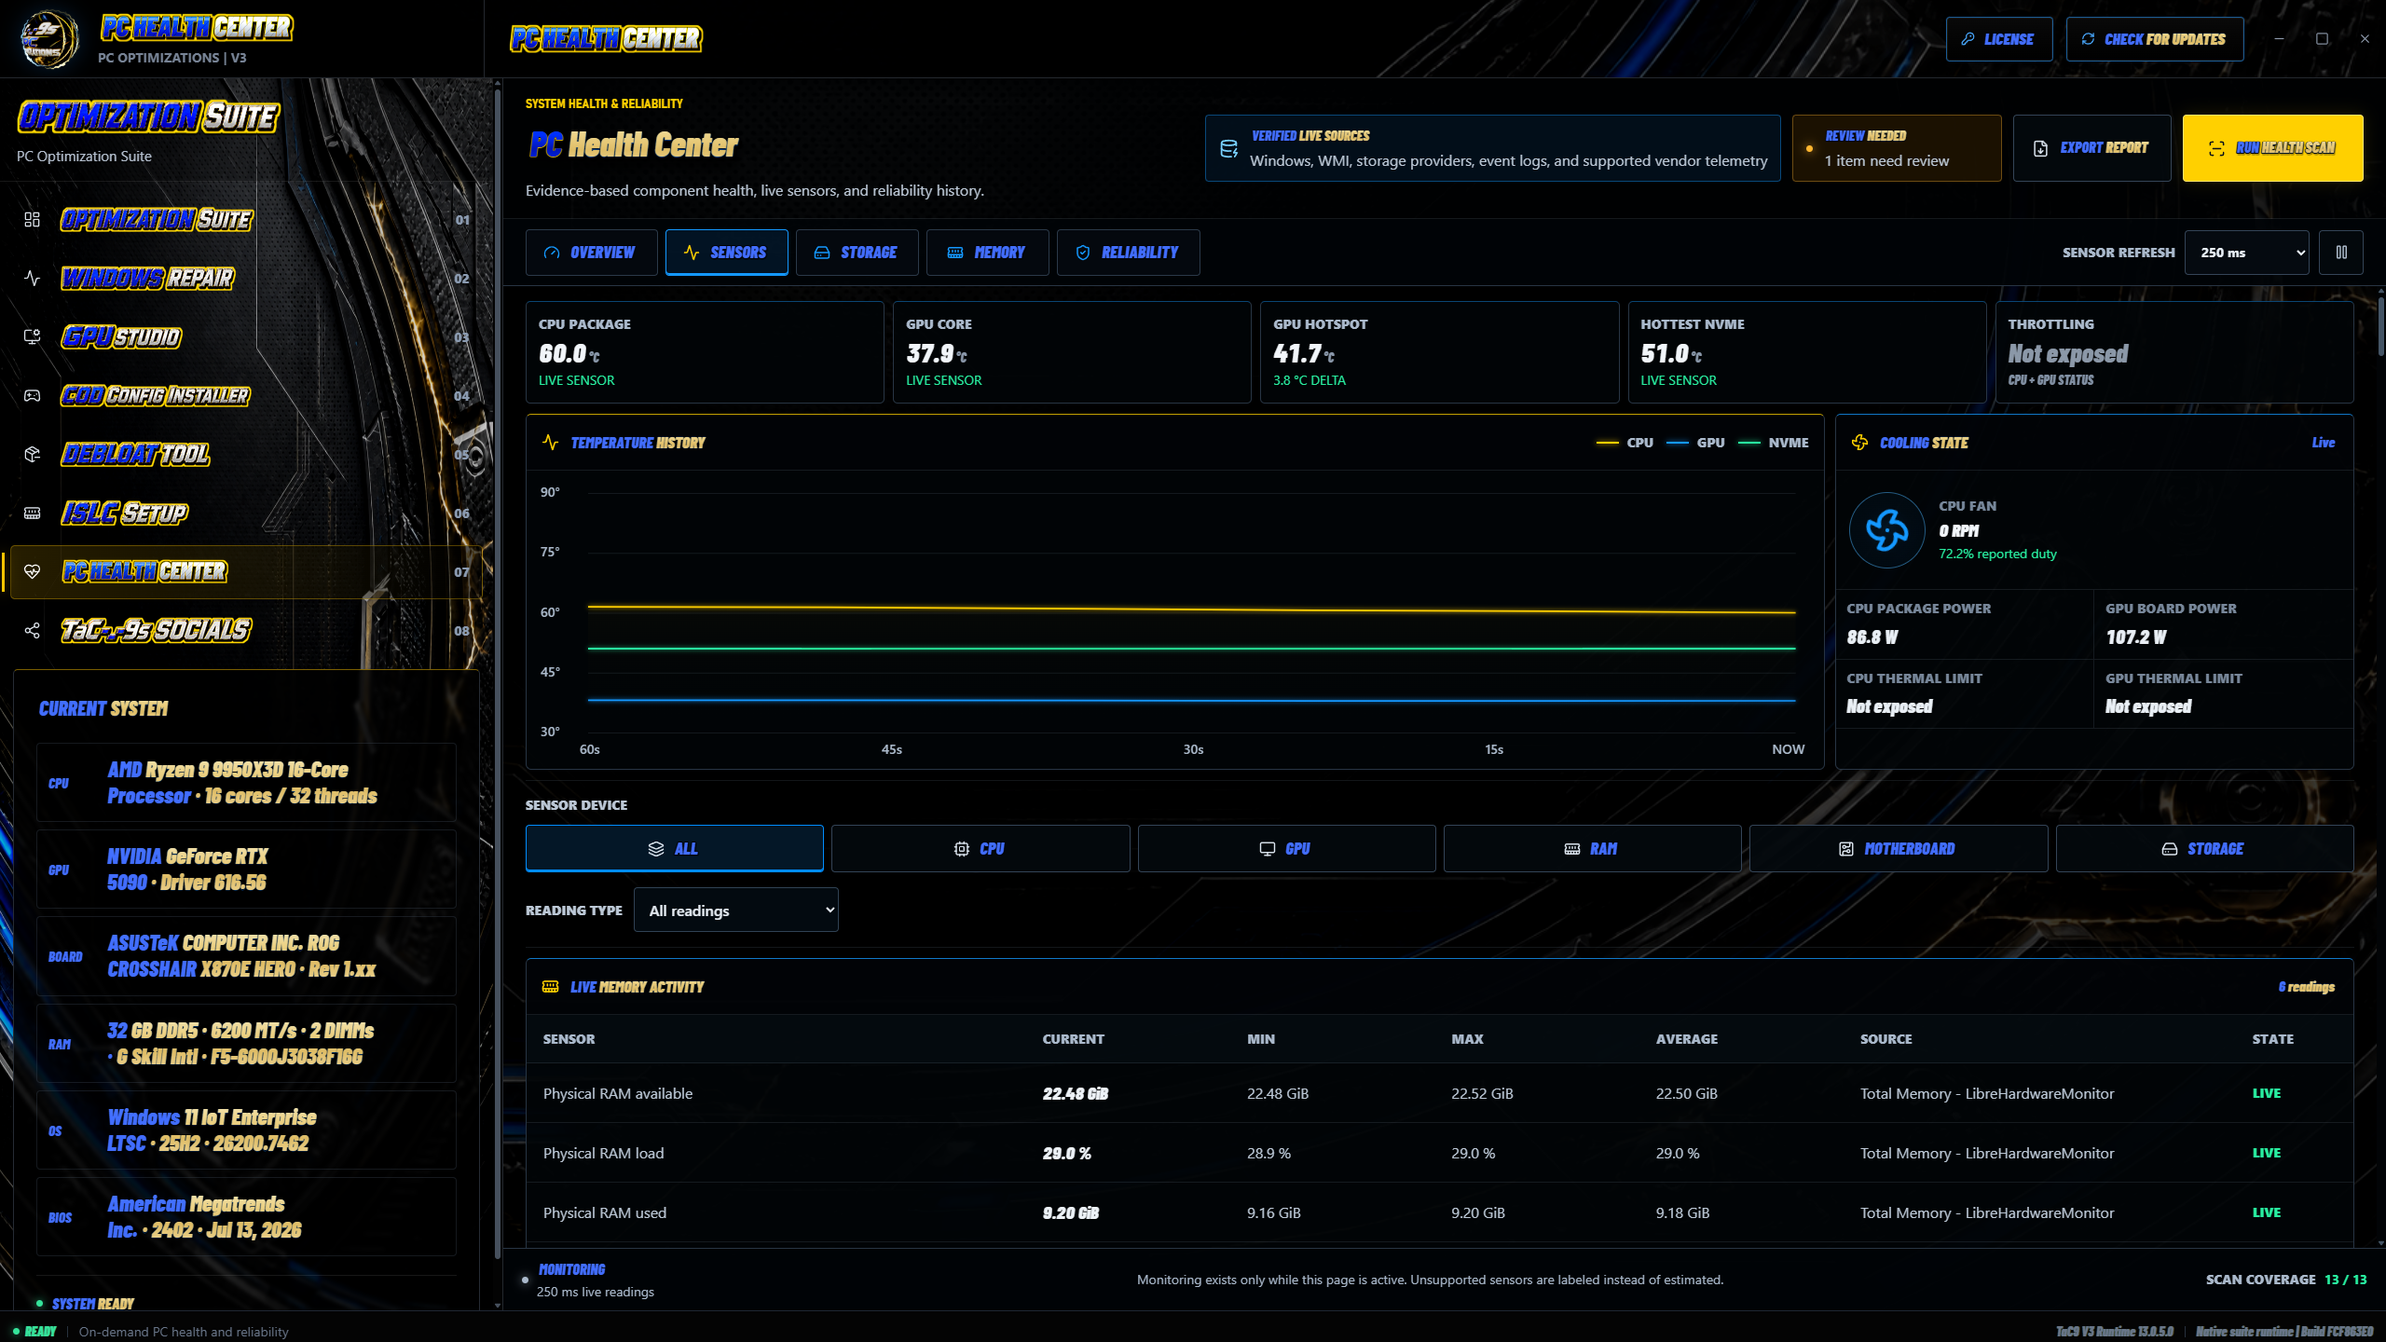
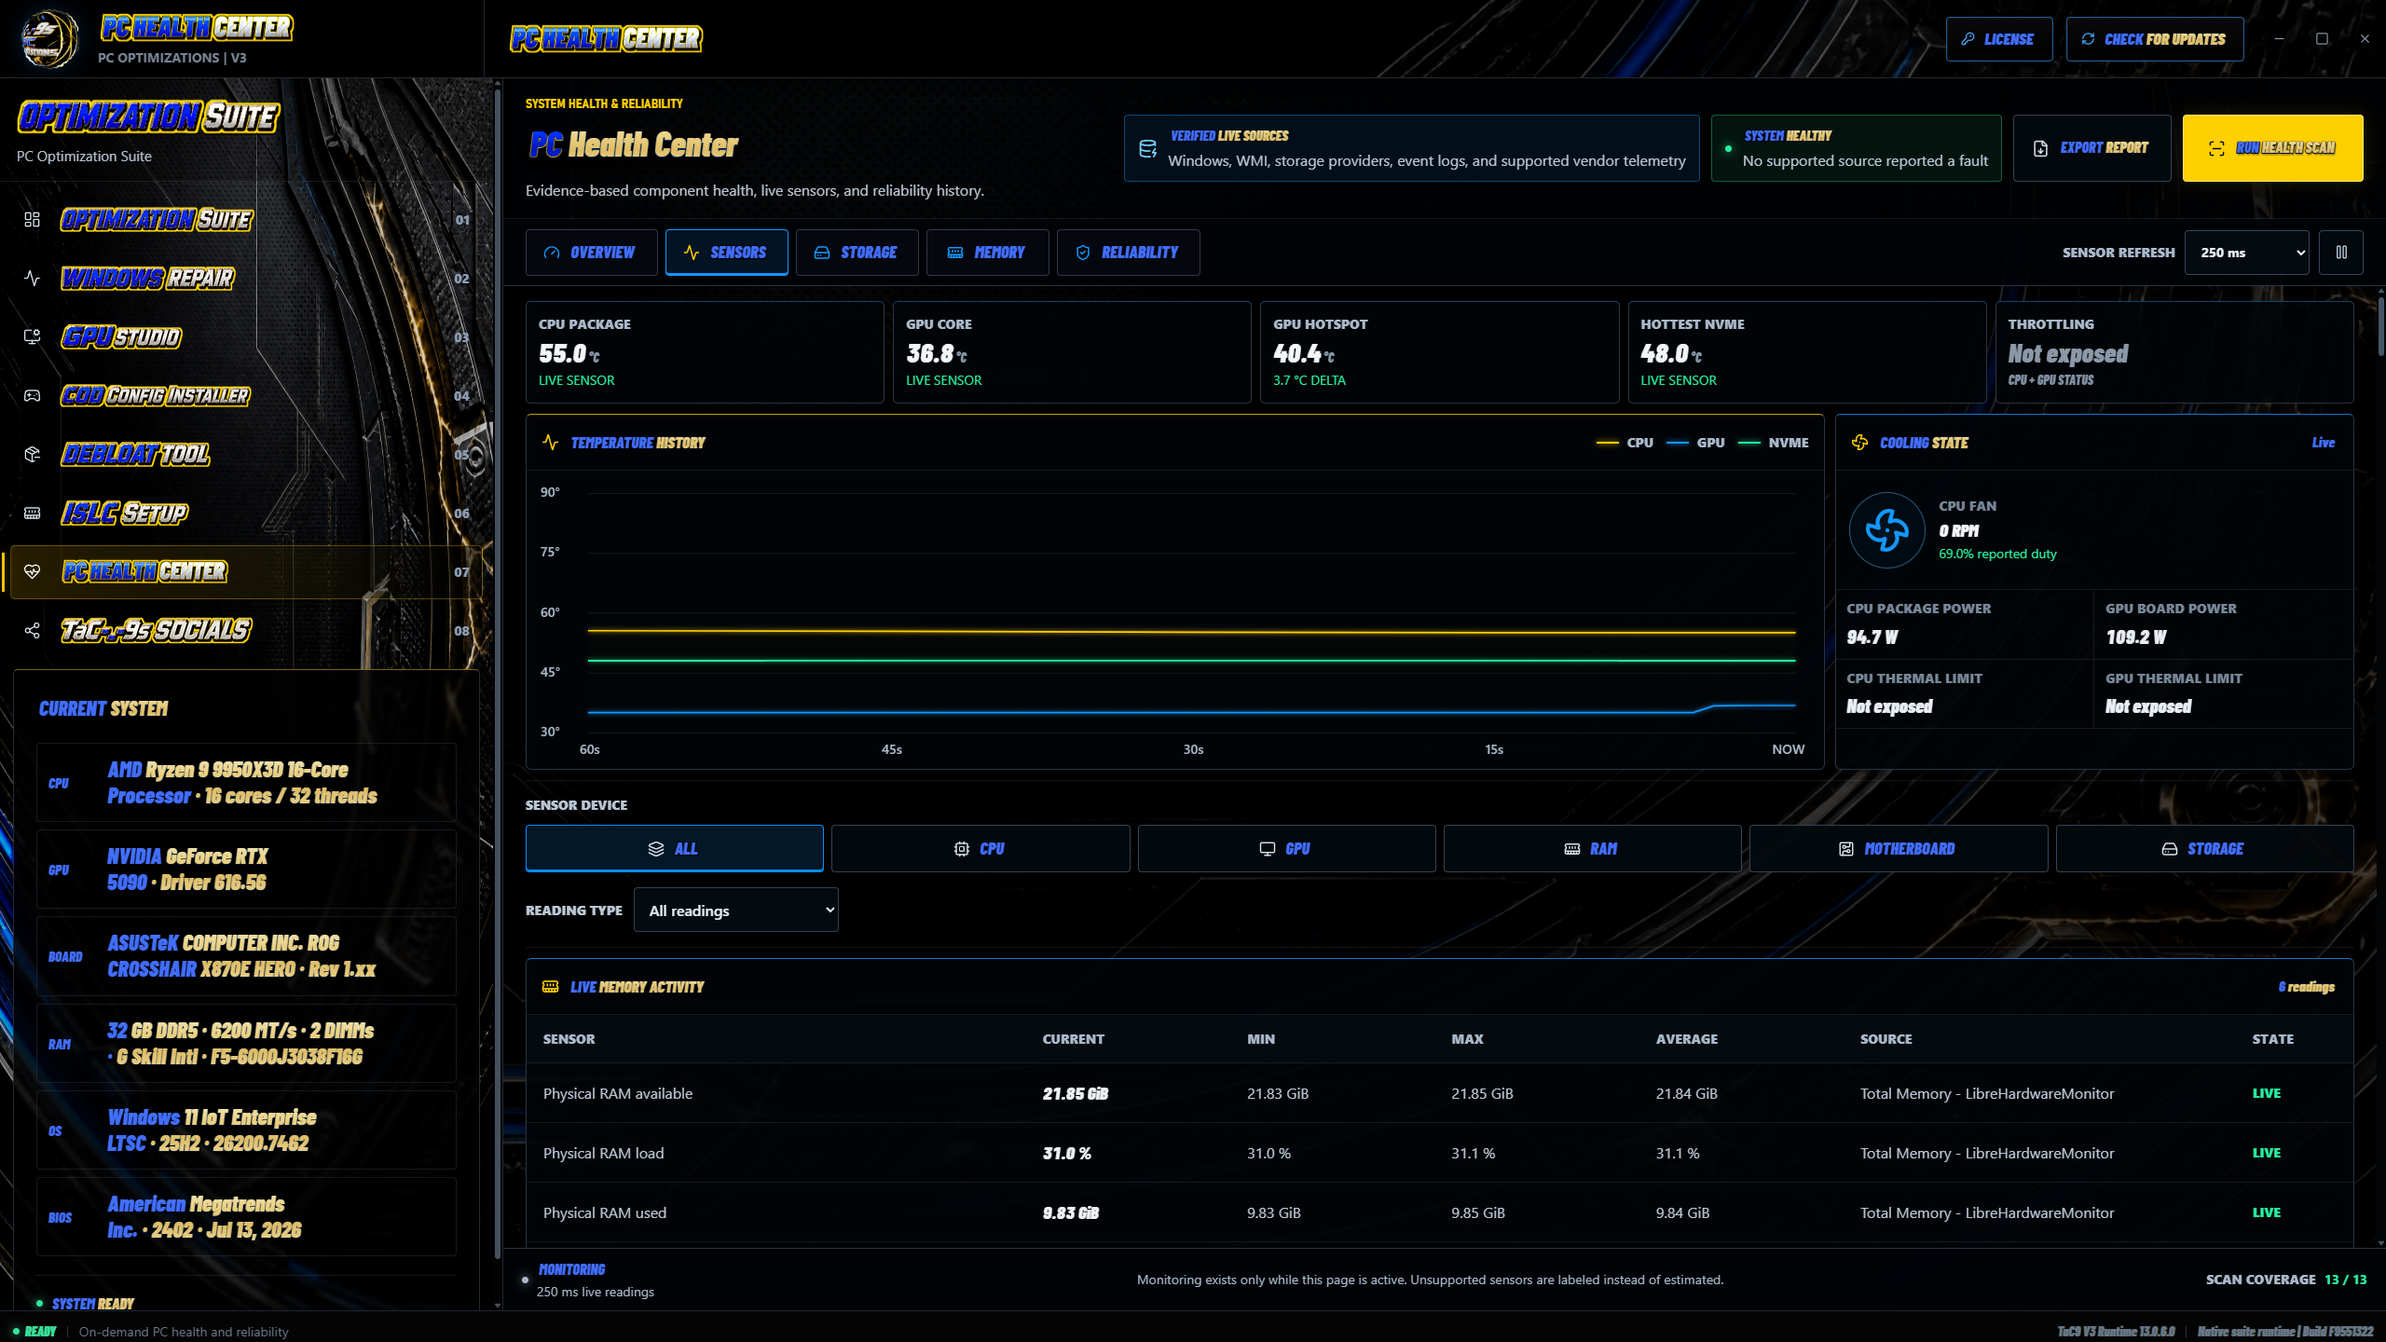
Document 13.0.6 lightweight driver records and progress controls

diff --git a/README.md b/README.md
@@ -10,11 +10,11 @@ TaC9 brings the everyday work of setting up and maintaining a gaming PC into one
 
 ![TaC9 Optimization Suite dashboard and eight-app navigation](docs/screenshots/suite.png)
 
-> Screenshots show the packaged V3 13.0.5 interface. Hardware and live sensor values are from the test PC; non-sensor maintenance states use the UI test harness. No driver cleanup, repair, or app removal was performed for these screenshots. Available readings depend on your PC.
+> Screenshots show the packaged V3 13.0.6 interface. Hardware and live sensor values are from the test PC; non-sensor maintenance states use the UI test harness. No driver cleanup, repair, or app removal was performed for these screenshots. Available readings depend on your PC.
 
 ## New in V3
 
-- **13.0.5:** Roll Back Driver reinstalls the saved previous NVIDIA driver through NVCleanstall and DDU. Normal installs verify a new backup before replacing the old one. [GPU installation and rollback guide](docs/GPU-ROLLBACK.md).
+- **13.0.6:** Roll Back Driver reinstalls the saved previous NVIDIA driver through NVCleanstall and DDU. Installs save a small previous-driver record, and the GPU progress window can be closed and reopened. [GPU installation and rollback guide](docs/GPU-ROLLBACK.md).
 
 - A full-screen animated startup with the rotating TaC9 emblem, assembling silver chassis, upgraded blue/gold lighting, and a smoother transition into the suite.
 - Larger, clearer text and content-aware scrolling throughout the suite, including the 1080p and scaled-window layout fixes.
@@ -28,13 +28,13 @@ The eight existing workspaces remain together. The repository keeps its original
 
 ## Download
 
-**Current release: V3 13.0.5**
+**Current release: V3 13.0.6**
 
 **[Download TaC9 V3 for Windows](https://github.com/Tac-9-Pc-Optimizations/TaC9-PC-Optimization-Suite-V2/releases/latest/download/TaC9-PC-Optimization-Suite-V3.exe)**
 
 [All releases and release notes](https://github.com/Tac-9-Pc-Optimizations/TaC9-PC-Optimization-Suite-V2/releases) | [SHA-256 checksum](https://github.com/Tac-9-Pc-Optimizations/TaC9-PC-Optimization-Suite-V2/releases/latest/download/SHA256SUMS.txt)
 
-One complete Windows executable, `TaC9-PC-Optimization-Suite-V3.exe`, includes the suite's eight workspaces. The COD Config Installer is included inside the suite, not offered here as a separate executable. Version 13.0.5 is approximately 191.7 MiB. Blender and Node.js are not required to run the suite.
+One complete Windows executable, `TaC9-PC-Optimization-Suite-V3.exe`, includes the suite's eight workspaces. The COD Config Installer is included inside the suite, not offered here as a separate executable. Version 13.0.6 is approximately 191.7 MiB. Blender and Node.js are not required to run the suite.
 
 The release also supplies a byte-identical `TaC9-PC-Optimization-Suite-V2.exe` compatibility asset for existing updater clients and old direct-download links. That asset runs **V3**, despite its retained filename. The genuine previous V2 remains available in the [12.2.13 release](https://github.com/Tac-9-Pc-Optimizations/TaC9-PC-Optimization-Suite-V2/releases/tag/v12.2.13).
 
@@ -55,13 +55,13 @@ Only the same-named Desktop executable is replaced after successful verification
 The script does **not** launch the app, request administrator access, change execution policy, or disable Windows security protections. The short command executes a downloaded script, so use only this official URL and review [win.ps1](win.ps1) before running it. Download verification is not a Windows Authenticode publisher signature.
 
 <details>
-<summary>Manual download of V3 13.0.5 without running a hosted script</summary>
+<summary>Manual download of V3 13.0.6 without running a hosted script</summary>
 
 ```powershell
-$url = 'https://github.com/Tac-9-Pc-Optimizations/TaC9-PC-Optimization-Suite-V2/releases/download/v13.0.5/TaC9-PC-Optimization-Suite-V3.exe'
+$url = 'https://github.com/Tac-9-Pc-Optimizations/TaC9-PC-Optimization-Suite-V2/releases/download/v13.0.6/TaC9-PC-Optimization-Suite-V3.exe'
 $file = Join-Path ([Environment]::GetFolderPath('Desktop')) 'TaC9-PC-Optimization-Suite-V3.exe'
 Invoke-WebRequest -Uri $url -OutFile $file -UseBasicParsing
[2 lines of base64/hex data omitted]
 Write-Host "Download verified: $file"
 ```
 
@@ -120,9 +120,9 @@ Keep the app open during a repair. Some DISM failures require a matching Windows
 - **Choose Driver:** select a supported driver version for the same clean installation process.
 - **Roll Back Driver:** reinstall the version saved before your last normal Suite installation.
 
-Normal installations capture and verify the current GPU backup before cleanup. The Suite prepares the driver with NVCleanstall, runs DDU, installs the clean package, checks NVIDIA Control Panel, and applies the supplied Profile Inspector profile and display settings. A restart completes verification.
+Normal installations save and verify the installed driver version and GPU identity before cleanup. The Suite prepares the driver with NVCleanstall, runs DDU, installs the clean package, checks NVIDIA Control Panel, and applies the supplied Profile Inspector profile and display settings. A restart completes verification.
 
-The Suite keeps one managed backup. A new normal install replaces it only after the replacement passes verification; rollback and Continue preserve the existing backup. If the required backup or driver package cannot be verified, cleanup does not start.
+The Suite keeps one small driver record, without copying old settings or driver files. A new normal install replaces it only after the replacement passes verification; rollback and Continue preserve the existing backup. If the driver record or required package cannot be verified, cleanup does not start.
 
 Rollback installs the previous driver with the Suite's settings. It does not restore every old custom setting or a Windows image. You can also apply the supplied profile without reinstalling, open NVIDIA Control Panel, or open Profile Inspector.
 
@@ -250,7 +250,7 @@ Starting with 12.2.13, **every normal launch checks for suite and supported tool
 
 The **Check for Updates** button also runs these checks on demand. When moving from 12.2.12, use that button once to bypass its old four-hour startup cache, or close the suite and use the short PowerShell downloader.
 
-An in-app upgrade replaces the executable at its existing location, so an older `V2.exe` filename may remain even though the app and its version are V3. The current short downloader creates the V3-named Desktop file and leaves differently named old suites alone. Version **13.0.5** is delivered through the existing signed update feed to older Suite builds.
+An in-app upgrade replaces the executable at its existing location, so an older `V2.exe` filename may remain even though the app and its version are V3. The current short downloader creates the V3-named Desktop file and leaves differently named old suites alone. Version **13.0.6** is delivered through the existing signed update feed to older Suite builds.
 
 Startup package updates do not run GPU driver removal or installation, Windows repair, app debloating, or game-configuration actions. Those workflows remain actions you choose inside the suite. This is not a general updater for every application installed on Windows.
 

diff --git a/docs/GPU-ROLLBACK.md b/docs/GPU-ROLLBACK.md
@@ -2,13 +2,13 @@
 
 GPU Studio offers **Auto Install**, **Choose Driver**, and **Roll Back Driver**. All three use the Suite's clean NVIDIA installation process. Roll Back Driver selects the version saved before your last normal Suite installation.
 
-![GPU Studio in V3 13.0.5](screenshots/gpu.png)
+![GPU Studio in V3 13.0.6](screenshots/gpu.png)
 
 ## Install or update a driver
 
 1. Save your work, close games, and open **GPU Studio** with administrator access.
 2. Select **Auto Install** for the newest compatible WHQL Game Ready driver available to the workflow, or **Choose Driver** to select a supported version.
-3. Let the Suite capture and verify the current GPU backup. It stops before cleanup if the required backup cannot be completed.
+3. Let the Suite save and verify the installed NVIDIA driver version and GPU identity. It stops before cleanup if this record cannot be saved.
 4. The Suite prepares and checks the clean driver package with NVCleanstall, runs DDU, installs the prepared package, checks NVIDIA Control Panel, and applies the supplied TaC9 profile and display settings.
 5. Follow the restart prompt. Reopen the Suite and use **Continue** when offered to complete verification.
 
@@ -18,25 +18,31 @@ The screen can flicker or briefly go black during driver removal and installatio
 
 1. Open **GPU Studio** and select **Roll Back Driver**.
 2. Review the saved previous version and confirm the operation.
-3. The Suite verifies the saved backup and matching GPU, then prepares that previous version with NVCleanstall before starting DDU.
+3. The Suite verifies the saved driver record and matching GPU, then prepares that previous version with NVCleanstall before starting DDU.
 4. DDU removes the current driver. The Suite installs the prepared previous driver and applies its normal profile and display settings.
 5. Restart when requested and use **Continue** to finish the checks.
 
 Rollback uses the version recorded in the backup, not whichever driver is newest at the time. If the backup, GPU identity, or required driver package cannot be verified, the Suite stops before cleanup.
 
-## One backup at a time
+## One previous driver at a time
 
-After a successful backup, the Suite keeps one managed GPU backup. During a new normal installation it temporarily creates a replacement, verifies it, and then deletes the old one. That temporary overlap protects the old backup if capture fails, and requires enough free space for both while capture is running.
+The Suite keeps one small record containing the previous NVIDIA driver version, GPU identity, and Windows ownership information. It does not copy driver files, NVIDIA applications, old profiles, or monitor settings for this record. The matching driver package is prepared when rollback is requested, so internet access and an available supported package are required.
 
-For example, installing driver B while driver A is installed saves A. Roll Back Driver then installs A. If you later start a normal install while B is installed, the new backup saves B and replaces A after verification. Rollback and Continue do not overwrite the saved previous setup.
+A new normal install saves the currently installed version, verifies the new record, and then deletes the old managed backup. A failed save keeps the previous record. Rollback and Continue preserve it. Older full backups are retired when a new normal install successfully saves its replacement; an unfinished operation keeps its original checkpoint.
 
-Backup time depends on the installed NVIDIA components, drive speed, and downloads needed to prepare recovery files. Wait for the actual verification result rather than a fixed time estimate.
+For example, installing B while A is installed saves A. Roll Back then selects A. Starting a later normal install while B is installed replaces the record with B. Only one previous version is retained.
+
+Saving the version is a small local step. Downloading and preparing the selected package, running DDU, and installing it take longer. Progress reports each stage separately.
+
+## Close and reopen progress
+
+Select **Close** to hide the GPU progress window while work continues, then **Show GPU progress** to bring it back. Closing the progress window does not cancel DDU or driver installation. Keep the Suite itself open until the operation finishes.
 
 ## What rollback restores
 
 It reinstalls the saved previous NVIDIA driver through the normal clean installation process, then applies the Suite's settings. It does not promise an exact copy of every old NVIDIA app or custom setting, and it does not rewind Windows, games, or unrelated files.
 
-The automated workflow supports compatible NVIDIA driver packages. Hardware, component, or package combinations that cannot pass the backup and preparation checks stop before DDU. A backup belongs to the PC and Windows user that created it. Protected tools require a paid key; contact the [TaC9 Discord](https://discord.gg/3nrUffpVzt) through a support ticket for access.
+The automated workflow supports compatible NVIDIA driver packages. Hardware, component, or package combinations that cannot pass the driver-record and package preparation checks stop before DDU. A driver record belongs to the PC and Windows user that created it. Protected tools require a paid key; contact the [TaC9 Discord](https://discord.gg/3nrUffpVzt) through a support ticket for access.
 
 ## If the process stops
 

diff --git a/docs/RELEASE-NOTES.md b/docs/RELEASE-NOTES.md
@@ -1,5 +1,26 @@
 # Release Notes
 
+## V3 13.0.6 - September 8, 2026
+
+**Faster previous-driver saving and a working Close button in GPU progress.**
+
+- Auto Install and Choose Driver now save a small record of the installed NVIDIA driver version and GPU identity before cleanup. This step no longer exports driver files, downloads a recovery installer, or copies NVIDIA apps, profiles, and display settings.
+- Only one previous driver record is kept. A replacement is verified before the old managed backup is deleted. Failed saves keep the previous record, and Continue or Roll Back never overwrite it.
+- Roll Back Driver still prepares the saved previous version with NVCleanstall, verifies the package before DDU, and installs it with the Suite settings. If the driver record or package cannot be verified, cleanup stops.
+- **Close** now hides the GPU progress window while the operation continues. Use **Show GPU progress** to bring it back. Keep the Suite itself open until the operation finishes.
+
+The small record is a version reference, not an offline driver package. Rollback requires internet access and an available compatible NVIDIA driver package. Downloading, preparing, cleaning, and installing the driver still take time. The Suite continues checking the installed driver and its applied settings after installation and restart.
+
+Protected tools require a paid key. Update through **Check for Updates** or download the latest executable. Both EXE names contain the same V3 build.
+
+[GPU installation and rollback guide](https://github.com/Tac-9-Pc-Optimizations/TaC9-PC-Optimization-Suite-V2/blob/main/docs/GPU-ROLLBACK.md)
+
+SHA-256 for either executable:
+
+```
[1 lines of base64/hex data omitted]
+```
+
 ## V3 13.0.5 - September 8, 2026
 
 **Roll Back Driver is now available in GPU Studio.** If you want to return to the driver you had before your last Suite install, the Suite can prepare that version with NVCleanstall, remove the current driver with DDU, and install the previous one using the normal Auto Install process.
